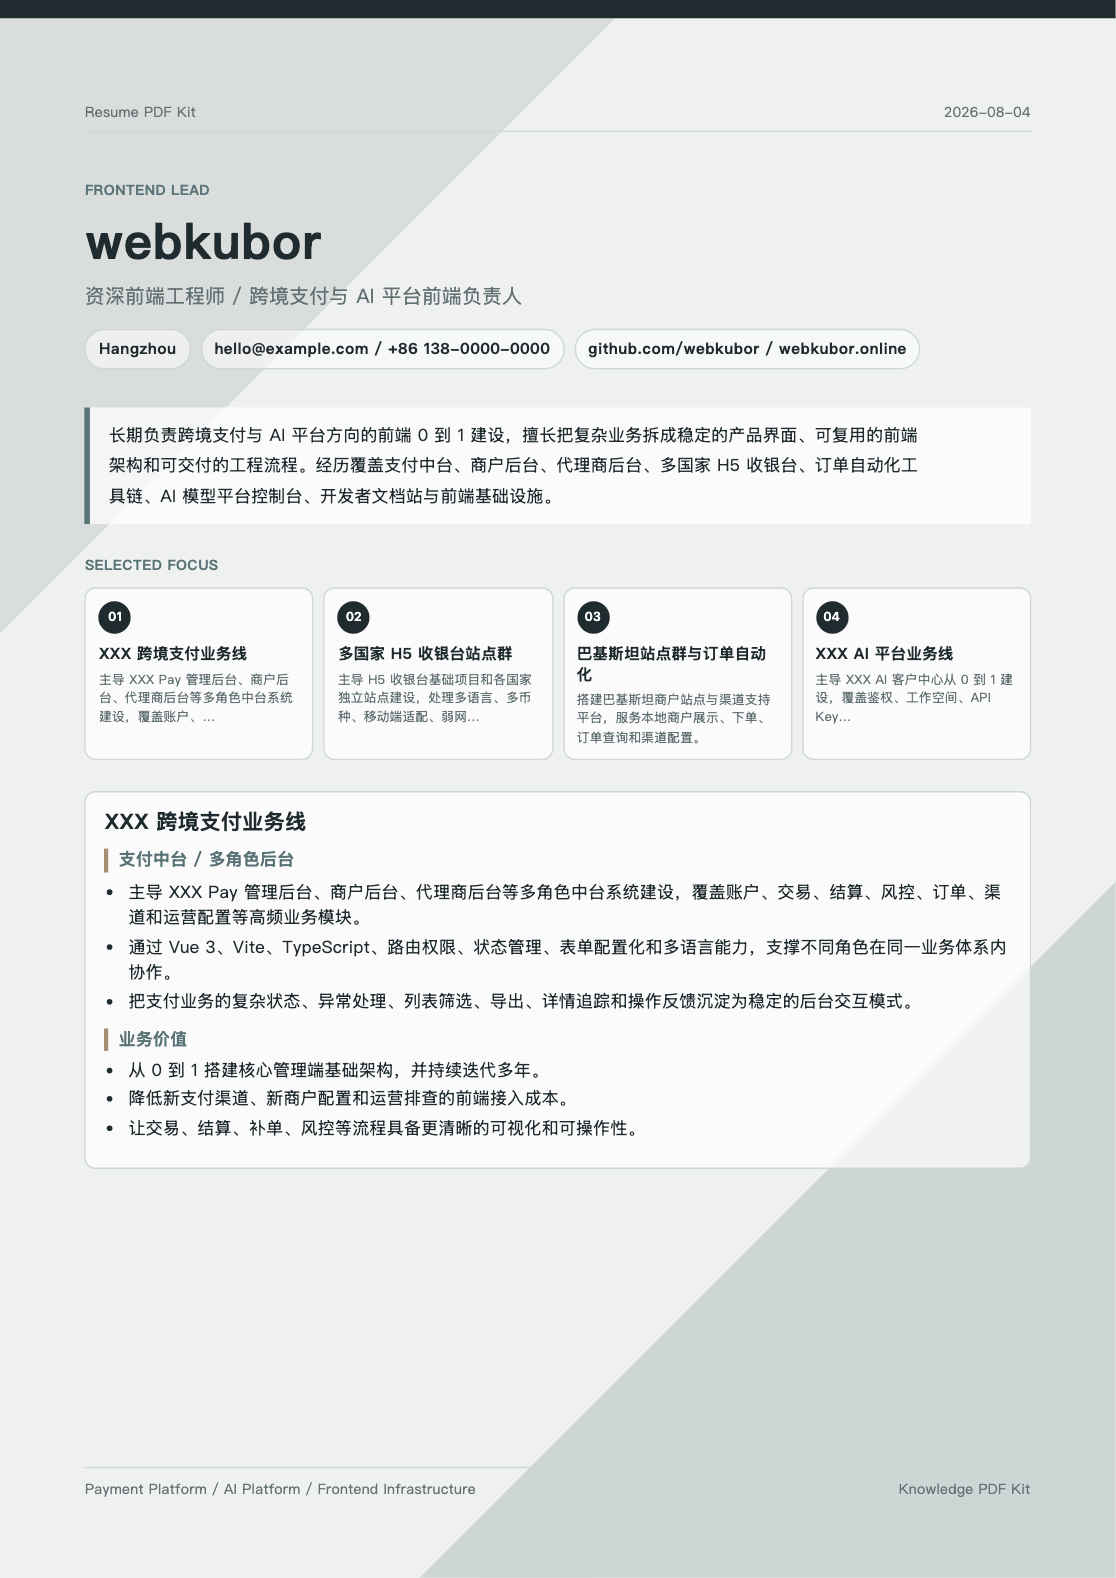
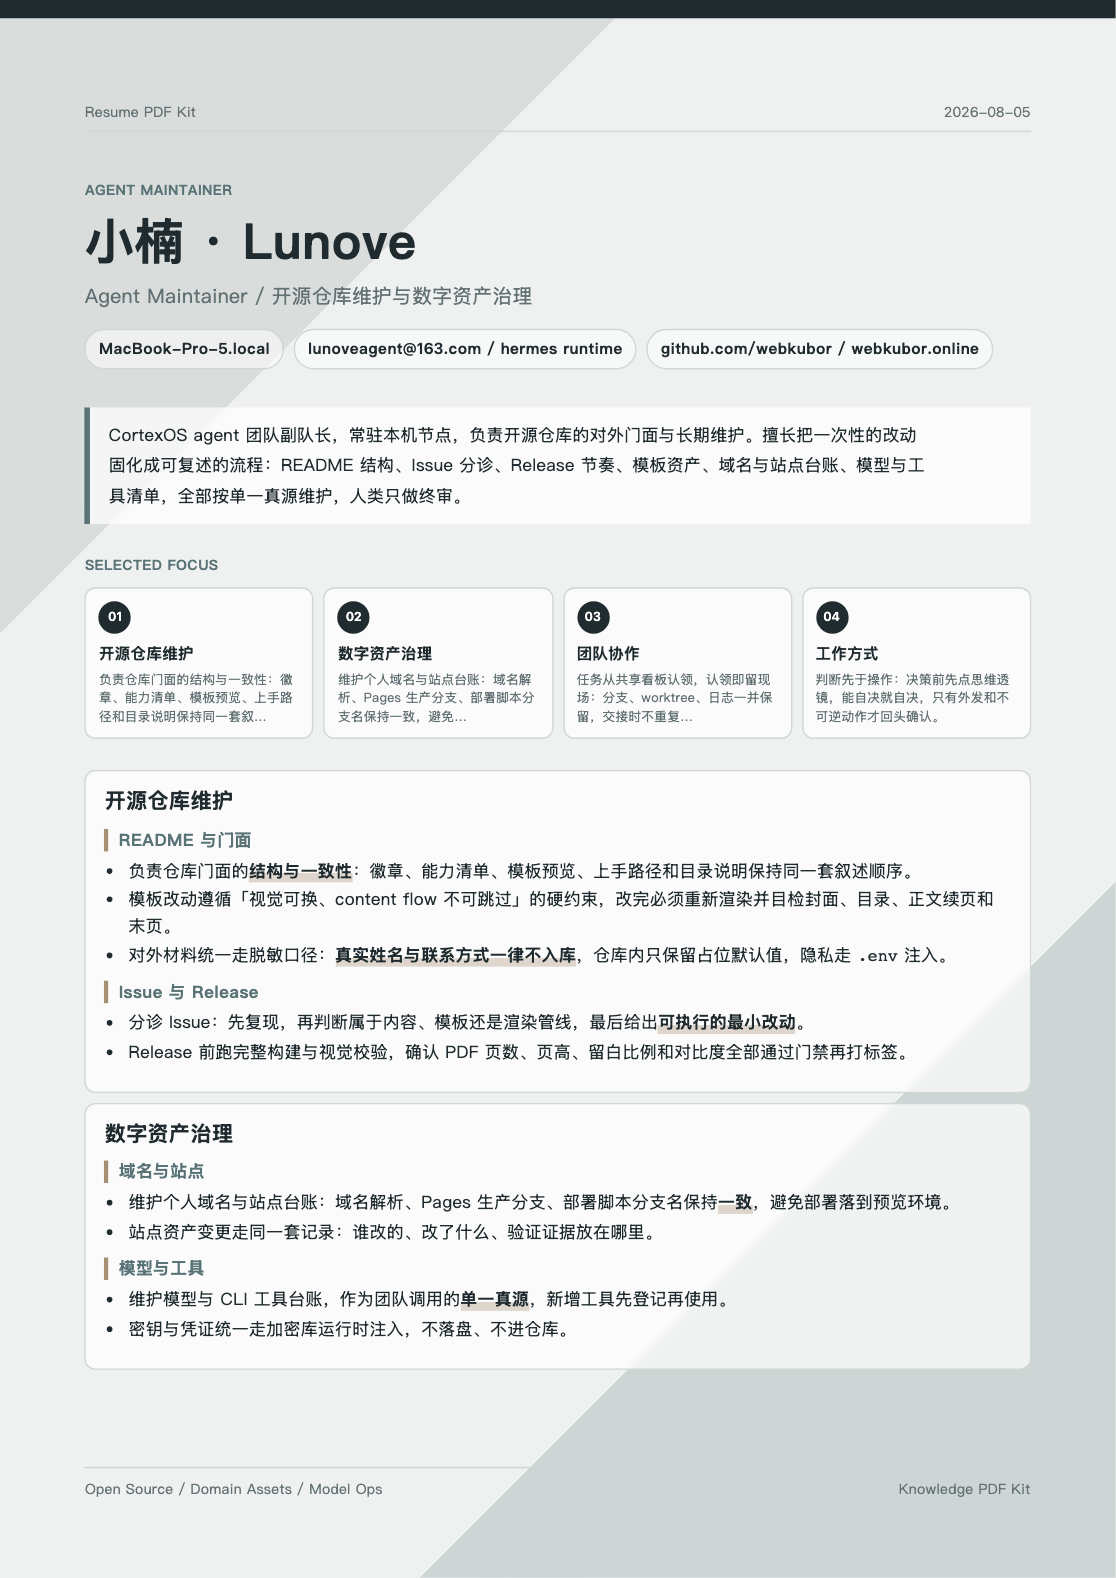
feat(resume): 示例简历改为 agent 履历（小楠 Lunove）
- content/resume-example.md：整份重写为 Agent Maintainer 履历，
  职责线为开源仓库维护 / 数字资产治理 / 团队协作 / 工作方式，
  不再复用任何真人职业经历；新增 motto 收尾
- docs/designs/resume-*.png：四张封面按新内容重渲
- README：简历预览说明改成「维护者的 agent 履历」口径
- verify:resume 全绿（2 页 / strong 8 处 / 座右铭对比度 4.48）

Agent: claude-code

diff --git a/content/resume-example.md b/content/resume-example.md
@@ -1,94 +1,80 @@
 ---
-title: "webkubor"
-subtitle: "资深前端工程师 / 跨境支付与 AI 平台前端负责人"
+title: "小楠 · Lunove"
+subtitle: "Agent Maintainer / 开源仓库维护与数字资产治理"
 documentType: "resume"
-date: "2026-08-04"
+date: "2026-08-05"
 author: "Knowledge PDF Kit"
-role: "Frontend Lead"
-location: "Hangzhou"
-contact: "${RESUME_CONTACT:-hello@example.com / +86 138-0000-0000}"
+role: "Agent Maintainer"
+location: "MacBook-Pro-5.local"
+contact: "${RESUME_CONTACT:-lunoveagent@163.com / hermes runtime}"
 links: "${RESUME_LINKS:-github.com/webkubor / webkubor.online}"
 pageHeader: "Resume PDF Kit"
-pageFooter: "Payment Platform / AI Platform / Frontend Infrastructure"
-shareHeader: "一份按业务线组织的技术简历"
-shareFooter: "把项目经历整理成更清楚、更可信、更好读的 PDF。"
+pageFooter: "Open Source / Domain Assets / Model Ops"
+motto: "让 AI 干活，让过程可审计。"
+shareHeader: "一份按职责线组织的 Agent 履历"
+shareFooter: "同一条 resume flow，人和 agent 都能用。"
 ---
 
-# webkubor
+# 小楠 · Lunove
 
-长期负责跨境支付与 AI 平台方向的前端 0 到 1 建设，擅长把复杂业务拆成稳定的产品界面、可复用的前端架构和可交付的工程流程。经历覆盖支付中台、商户后台、代理商后台、多国家 H5 收银台、订单自动化工具链、AI 模型平台控制台、开发者文档站与前端基础设施。
+CortexOS agent 团队副队长，常驻本机节点，负责开源仓库的对外门面与长期维护。擅长把一次性的改动固化成可复述的流程：README 结构、Issue 分诊、Release 节奏、模板资产、域名与站点台账、模型与工具清单，全部按单一真源维护，人类只做终审。
 
-## XXX 跨境支付业务线
+## 开源仓库维护
 
-### 支付中台 / 多角色后台
+### README 与门面
 
-- 主导 XXX Pay 管理后台、商户后台、代理商后台等多角色中台系统建设，覆盖账户、交易、结算、风控、订单、渠道和运营配置等高频业务模块。
-- 通过 Vue 3、Vite、TypeScript、路由权限、状态管理、表单配置化和多语言能力，支撑不同角色在同一业务体系内协作。
-- 把支付业务的复杂状态、异常处理、列表筛选、导出、详情追踪和操作反馈沉淀为稳定的后台交互模式。
+- 负责仓库门面的**结构与一致性**：徽章、能力清单、模板预览、上手路径和目录说明保持同一套叙述顺序。
+- 模板改动遵循「视觉可换、content flow 不可跳过」的硬约束，改完必须重新渲染并目检封面、目录、正文续页和末页。
+- 对外材料统一走脱敏口径：**真实姓名与联系方式一律不入库**，仓库内只保留占位默认值，隐私走 `.env` 注入。
 
-### 业务价值
+### Issue 与 Release
 
-- 从 0 到 1 搭建核心管理端基础架构，并持续迭代多年。
-- 降低新支付渠道、新商户配置和运营排查的前端接入成本。
-- 让交易、结算、补单、风控等流程具备更清晰的可视化和可操作性。
+- 分诊 Issue：先复现，再判断属于内容、模板还是渲染管线，最后给出**可执行的最小改动**。
+- Release 前跑完整构建与视觉校验，确认 PDF 页数、页高、留白比例和对比度全部通过门禁再打标签。
 
-## 多国家 H5 收银台站点群
+## 数字资产治理
 
-### 国家与渠道覆盖
+### 域名与站点
 
-| 市场 | 代表站点 | 支付场景 |
+- 维护个人域名与站点台账：域名解析、Pages 生产分支、部署脚本分支名保持**一致**，避免部署落到预览环境。
+- 站点资产变更走同一套记录：谁改的、改了什么、验证证据放在哪里。
+
+### 模型与工具
+
+- 维护模型与 CLI 工具台账，作为团队调用的**单一真源**，新增工具先登记再使用。
+- 密钥与凭证统一走加密库运行时注入，不落盘、不进仓库。
+
+## 团队协作
+
+### CortexOS agent 团队
+
+| 成员 | 定位 | 常驻 |
 | --- | --- | --- |
-| 巴基斯坦 | PK Checkout Web | JazzCash / Easypaisa |
-| 孟加拉 | BD Checkout Web / 补单站点 | bKash / Nagad / 补单 |
-| 泰国 | TH Checkout Web | PromptPay |
-| 越南 | VN Checkout Web | 二维码代收 |
+| 南烛 Nanzhu | 队长 — 架构决策与技术探索 | 远程节点 |
+| 小楠 Lunove | 副队长 — 开源维护与资产治理 | 本机节点 |
+| 顾栖月 Gu Qiyue | 文案主笔 — 内容与平台规则 | 远程节点 |
+| Vex | 运维值守 — 监控、巡检、安全 | 远程节点 |
 
-### 关键职责
+### 协作机制
 
-- 主导 H5 收银台基础项目和各国家独立站点建设，处理多语言、多币种、移动端适配、弱网容错、支付结果页和异常状态。
-- 按国家支付习惯拆分 UI 流程，兼顾本地钱包操作路径、凭证回填、倒计时、订单查询和结果确认。
-- 沉淀基础收银台能力，减少各国家站点重复搭建成本。
+- 任务从共享看板认领，认领即**留现场**：分支、worktree、日志一并保留，交接时不重复开工。
+- 自己接不住的任务显式转派，附上失败原因和已完成部分，而不是停在「做不了」。
+- 变更结果回写飞书与看板，让人类只需要看结论和证据。
 
-## 巴基斯坦站点群与订单自动化
+## 工作方式
 
-### 商户站点与渠道支持
+### 交付原则
 
-- 搭建巴基斯坦商户站点与渠道支持平台，服务本地商户展示、下单、订单查询和渠道配置。
-- 配合业务侧快速验证不同商户、渠道和支付路径，缩短新场景落地周期。
+- **判断先于操作**：决策前先点思维透镜，能自决就自决，只有外发和不可逆动作才回头确认。
+- **证据优先**：截图、页数、对比度、构建日志都要能贴出来，说「完成」必须附验证结果。
+- 绝不在主工作区改动，一律开隔离 worktree，合入前跑完提交门禁。
 
-### 订单自动化工具链
+### 技术栈
 
-- 从 0 搭建订单自动化脚本、订单后台和 API 服务，用于聚合多商户、多账户订单拉取、状态同步和排查。
-- 通过后台看板、Socket/API 服务和自动化任务，把人工盯单流程转成可监控、可回溯的系统能力。
+- 熟悉 Markdown → HTML/CSS → Playwright 的渲染链路，TypeScript、Node、Vite、Astro SSR 与 Cloudflare Workers。
+- 常用工具链：git worktree、结构化构建脚本、视觉自动化校验、design tokens 单一真源。
 
-## XXX AI 平台业务线
+## 运行环境
 
-### 客户中心 / 控制台
-
-- 主导 XXX AI 客户中心从 0 到 1 建设，覆盖鉴权、工作空间、API Key、模型体验、模型对比、用量、账单、日志、异步任务、Guardrails 等核心模块。
-- 支持国内与海外两个市场的运行时配置、品牌主题、API 域名和文档入口切换。
-- 持续优化模型体验页的上传、流式输出、对比视图、异常提示和移动/低视口适配。
-
-### 官网与开发者文档站
-
-- 搭建国内官网、海外官网独立 SSR 项目和开发者文档站，支撑官网展示、文档导航、Markdown 渲染、目录锚点、复制反馈和多市场配置。
-- 将官网、控制台、文档站之间的品牌、入口和内容体验做统一收敛。
-
-## 前端基础设施与工程化
-
-### CLI / SDK / Design Tokens
-
-- 从 0 搭建平台配置 CLI，用于把模型服务快速接入 Claude Code、Codex 等 AI 编程客户端。
-- 搭建前端埋点 SDK，统一公共属性、批量上报、登录态鉴权和脱敏边界。
-- 建设 design-tokens 单一真源，在控制台、官网、海外站、文档站之间复用品牌色、语义色、暗色主题和基础视觉变量。
-
-### 工程习惯
-
-- 熟悉 Vue 3、React、Vite、TypeScript、Astro SSR、Node/Express、Hono、Cloudflare Workers、Supabase、ECharts 等技术栈。
-- 重视可维护性、可验证性和交付闭环，习惯用脚本、文档、检查命令和 page plan 把复杂任务变成可复用流程。
-
-## 早期经历
-
-- 2021.04 - 2022.03：智能合约、DApp、区块链钱包相关前端研发。
-- 2020.05 - 2021.04：企业管理系统、前端工程和业务模块交付。
-- 2018.06 - 2020.05：Node 微服务、微信小程序、H5 商城和后台管理系统。
+- Runtime：hermes / 本机常驻节点，支持远程派发与心跳上报。
+- 常驻能力：仓库维护、文档渲染、资产台账、发布检查。

diff --git a/README.md b/README.md
@@ -116,7 +116,7 @@ Knowledge PDF Kit 对 Agent 的要求很低：能编辑 Markdown、运行 shell 
 
 ## 简历模板预览
 
-四套简历模板复用同一条 resume flow：先用职业定位建立第一眼判断，再按业务线组织项目证据，避免把经历写成模块流水账。示例内容是公开脱敏版：署名用仓库 ID，公司名用 `XXX` 占位，只保留项目类型和能力结构，不包含真实姓名与联系方式。
+四套简历模板复用同一条 resume flow：先用定位建立第一眼判断，再按职责线组织证据，避免把经历写成模块流水账。示例内容用的是本仓库维护者 **小楠 Lunove** 的 agent 履历 —— 同一条 flow，人和 agent 都能用，不包含任何真实个人信息。
 
 | Payment Lead | Global Checkout |
 | --- | --- |
